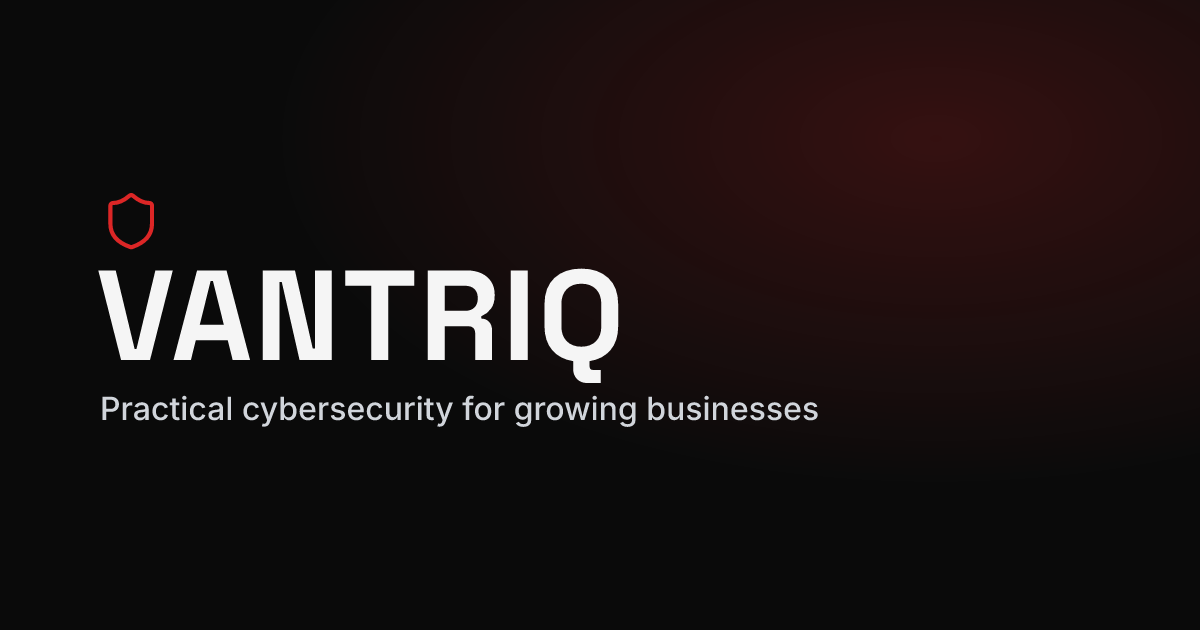
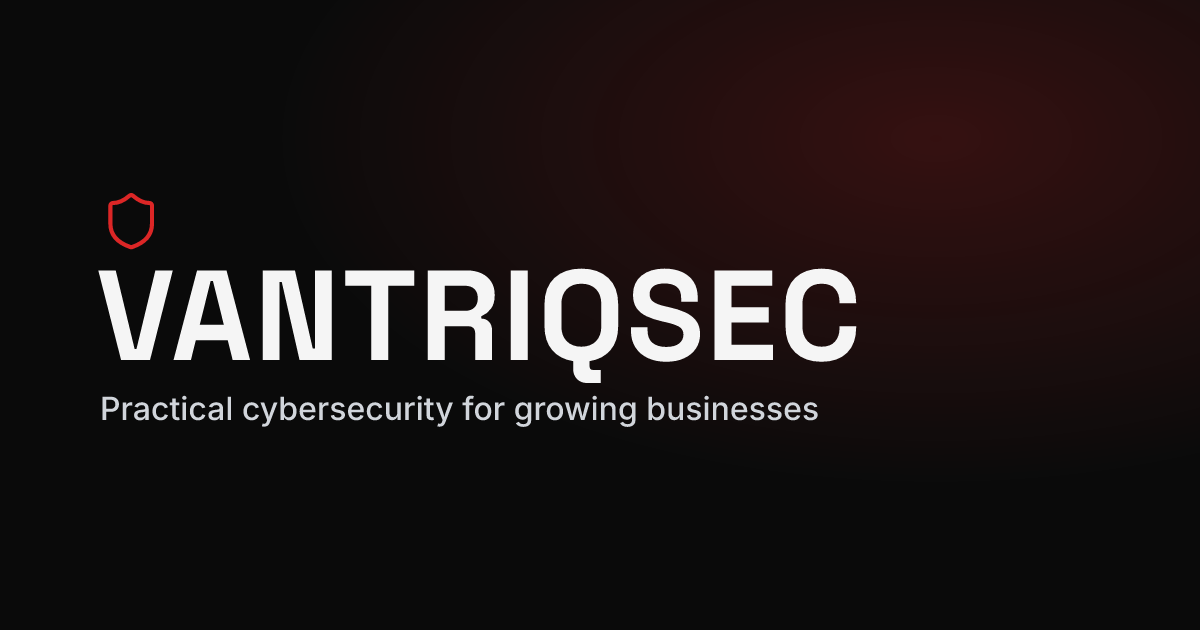
rename: Vantriq -> VantriqSec, vantriq.com -> vantriqsec.com
The domain is now real and registered (Cloudflare Registrar, auto-
renew on) — this also clears the long-standing "placeholder domain"
TODO in astro.config.mjs, not just a rename.

- Display copy, page titles, meta descriptions, OG/Twitter tags,
  JSON-LD Organization name/email, README, LICENSE, SECURITY.md.
- package.json/wrangler.jsonc "name", Turso db-name examples in
  README/.dev.vars.example/scripts, gitleaks config title/rule IDs.
- vantriq.com -> vantriqsec.com in astro.config.mjs, robots.txt,
  canonicals, and all addresses (hello@, notifications@, security@).
- Resend sender display name -> "VantriqSec Website".
- OrganizationSchema.astro sameAs: added the real
  https://github.com/VANTRIQ entry; X/LinkedIn stay TODO placeholders
  (renamed to match the brand, not filled in — still deferred).
- Regenerated public/og.png with the VANTRIQSEC wordmark: verified
  1200x630 exact, no clipping, 63.2KB (well under 300KB).
- Fixed two stale .env references in scripts/test-contact.mjs left
  over from before the Cloudflare migration switched local secrets to
  .dev.vars — found while touching the file for the domain rename.

Did NOT touch: the git remote or GitHub repo name (VANTRIQ/vantriq
stays as-is, per explicit instruction).

Verified: grep -rni "vantriq\.com" -> zero matches. grep -rni "TODO"
outside .dev.vars.example -> only the two known/accepted social-handle
placeholders (now vantriqsec-branded) plus incidental noise from the
[…]

Changed region(s): [[0.5242, 0.4222, 0.74, 0.573]]

diff --git a/src/lib/email.ts b/src/lib/email.ts
@@ -19,7 +19,7 @@ export async function sendContactNotification(input: ContactInput): Promise<void
 
   try {
     const { error } = await resend.emails.send({
-      from: 'Vantriq Website <notifications@vantriq.com>',
+      from: 'VantriqSec Website <notifications@vantriqsec.com>',
       to: toEmail,
       replyTo: input.email,
       subject: `New contact form submission from ${input.name}`,

diff --git a/README.md b/README.md
@@ -1,6 +1,6 @@
-# Vantriq
+# VantriqSec
 
-Marketing site for Vantriq — Astro + Tailwind CSS v4, deployed to
+Marketing site for VantriqSec — Astro + Tailwind CSS v4, deployed to
 Cloudflare Workers, contact form backed by Turso (libSQL) and Resend.
 
 ## Stack
@@ -56,9 +56,9 @@ turso auth login
 Create the production database and capture its URL + auth token:
 
 ```bash
-turso db create vantriq
-turso db show vantriq --url
-turso db tokens create vantriq
+turso db create vantriqsec
+turso db show vantriqsec --url
+turso db tokens create vantriqsec
 ```
 
 Save the URL from `turso db show` and the token from `turso db tokens
@@ -68,17 +68,17 @@ secrets (step 3).
 Apply the schema:
 
 ```bash
-turso db shell vantriq < src/db/schema.sql
+turso db shell vantriqsec < src/db/schema.sql
 ```
 
 Optional but recommended — a separate dev database so local testing
 doesn't write into production data:
 
 ```bash
-turso db create vantriq-dev
-turso db show vantriq-dev --url
-turso db tokens create vantriq-dev
-turso db shell vantriq-dev < src/db/schema.sql
+turso db create vantriqsec-dev
+turso db show vantriqsec-dev --url
+turso db tokens create vantriqsec-dev
+turso db shell vantriqsec-dev < src/db/schema.sql
 ```
 
 ### 2. Resend (contact notification email)
@@ -100,7 +100,7 @@ export RESEND_API_KEY=re_your_key_here
 curl -X POST https://api.resend.com/domains \
   -H "Authorization: Bearer $RESEND_API_KEY" \
   -H "Content-Type: application/json" \
-  -d '{"name":"vantriq.com"}'
+  -d '{"name":"vantriqsec.com"}'
 ```
 
 The response includes a `records` array (SPF `TXT`, DKIM `CNAME`/`TXT`,
@@ -108,8 +108,8 @@ and optionally `MX`) with the exact `name`/`type`/`value` to add at
 your DNS provider. Add each record there, then confirm propagation:
 
 ```bash
-dig TXT vantriq.com +short
-dig CNAME resend._domainkey.vantriq.com +short
+dig TXT vantriqsec.com +short
+dig CNAME resend._domainkey.vantriqsec.com +short
 ```
 
 Once DNS has propagated (can take a few minutes to a few hours),
@@ -128,7 +128,7 @@ curl https://api.resend.com/domains \
   -H "Authorization: Bearer $RESEND_API_KEY"
 ```
 
-Look for `"status": "verified"` before relying on `notifications@vantriq.com`
+Look for `"status": "verified"` before relying on `notifications@vantriqsec.com`
 to actually deliver — sends from an unverified domain will fail or land
 in spam.
 
@@ -143,13 +143,13 @@ way Vercel's Production/Preview split works — set each one with
 echo "$TURSO_DATABASE_URL" | npx wrangler secret put TURSO_DATABASE_URL
 echo "$TURSO_AUTH_TOKEN" | npx wrangler secret put TURSO_AUTH_TOKEN
 echo "$RESEND_API_KEY" | npx wrangler secret put RESEND_API_KEY
-echo "hello@vantriq.com" | npx wrangler secret put CONTACT_TO_EMAIL
+echo "hello@vantriqsec.com" | npx wrangler secret put CONTACT_TO_EMAIL
 
 CONTACT_TOKEN_SECRET=$(openssl rand -hex 32)
 echo "$CONTACT_TOKEN_SECRET" | npx wrangler secret put CONTACT_TOKEN_SECRET
 ```
 
-Alternative: the Cloudflare dashboard → Workers & Pages → the `vantriq`
+Alternative: the Cloudflare dashboard → Workers & Pages → the `vantriqsec`
 Worker → Settings → Variables and Secrets → Add.
 
 Verify what's set (values are never shown, only names):
@@ -165,7 +165,7 @@ cp .dev.vars.example .dev.vars
 ```
 
 Fill in `TURSO_DATABASE_URL`, `TURSO_AUTH_TOKEN`, `RESEND_API_KEY`,
-`CONTACT_TO_EMAIL`, and `CONTACT_TOKEN_SECRET` (use the `vantriq-dev`
+`CONTACT_TO_EMAIL`, and `CONTACT_TOKEN_SECRET` (use the `vantriqsec-dev`
 database's credentials here if you created one; for the token secret,
 `openssl rand -hex 32` or reuse the one you generated in step 3).
 `.dev.vars` is gitignored — never commit real values. This is

diff --git a/SECURITY.md b/SECURITY.md
@@ -3,7 +3,7 @@
 ## Reporting a vulnerability
 
 If you believe you've found a security issue in this site, please email
-**security@vantriq.com** with details and reproduction steps.
+**security@vantriqsec.com** with details and reproduction steps.
 Please don't open a public issue for undisclosed vulnerabilities.
 
 (This is a placeholder inbox — see the placeholder audit in project
